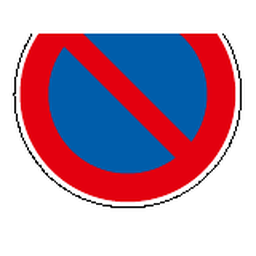
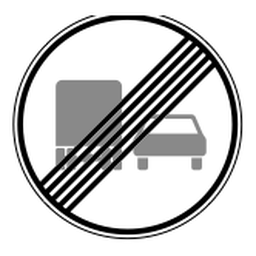
template

diff --git a/src/masks/vorschriftzeichen_manifest.py b/src/masks/vorschriftzeichen_manifest.py
@@ -33,6 +33,23 @@ VORSCHRIFTZEICHEN_TEMPLATES = [
     ("230", "Ladebereich", "rectangle", template_path("230")),
     ("237", "Radweg", "circle", template_path("237")),
     ("238", "Reitweg", "circle", template_path("238")),
+    ("239", "Gehweg", "circle", template_path("239")),
+    ("240", "Gemeinsamer Geh- und Radweg", "circle", template_path("240")),
+    ("241", "Getrennter Rad- und Gehweg", "circle", template_path("241")),
+    ("242.1", "Beginn einer Fussgaengerzone", "rectangle", template_path("242.1")),
+    ("242.2", "Ende einer Fussgaengerzone", "rectangle", template_path("242.2")),
+    ("244.1", "Beginn einer Fahrradstrasse", "rectangle", template_path("244.1")),
+    ("244.2", "Ende einer Fahrradstrasse", "rectangle", template_path("244.2")),
+    ("244.3", "Beginn einer Fahrradzone", "rectangle", template_path("244.3")),
+    ("244.4", "Ende einer Fahrradzone", "rectangle", template_path("244.4")),
+    ("245", "Bussonderfahrstreifen", "circle", template_path("245")),
+    ("250", "Verbot fuer Fahrzeuge aller Art", "circle", template_path("250")),
+    ("251", "Verbot fuer Kraftwagen und sonstige mehrspurige Kraftfahrzeuge", "circle", template_path("251")),
+    ("253", "Verbot fuer Kraftfahrzeuge ueber 3,5 t", "circle", template_path("253")),
+    ("254", "Verbot fuer Radverkehr", "circle", template_path("254")),
+    ("255", "Verbot fuer Kraftraeder", "circle", template_path("255")),
+    ("257-50", "Verbot fuer Mofas", "circle", template_path("257-50")),
+    ("257-51", "Verbot fuer Reiter", "circle", template_path("257-51")),
     ("259", "Verbot fuer Fussgaenger", "circle", template_path("259")),
     ("260", "Verbot fuer Kraftfahrzeuge", "circle", template_path("260")),
     ("261", "Verbot fuer kennzeichnungspflichtige Kraftfahrzeuge mit gefaehrlichen Guetern", "circle", template_path("261")),
@@ -41,6 +58,28 @@ VORSCHRIFTZEICHEN_TEMPLATES = [
     ("264", "Verbot fuer Fahrzeuge ueber angegebener tatsaechlicher Breite", "circle", template_path("264")),
     ("265", "Verbot fuer Fahrzeuge ueber angegebener tatsaechlicher Hoehe", "circle", template_path("265")),
     ("266", "Verbot fuer Fahrzeuge ueber angegebener tatsaechlicher Laenge", "circle", template_path("266")),
+    ("267", "Verbot der Einfahrt", "circle", template_path("267")),
+    ("268", "Schneeketten vorgeschrieben", "circle", template_path("268")),
+    ("269", "Verbot fuer Fahrzeuge mit wassergefaehrdender Ladung", "circle", template_path("269")),
+    ("270.1", "Beginn einer Verkehrsverbotszone zur Verminderung schaedlicher Luftverunreinigungen", "rectangle", template_path("270.1")),
+    ("270.2", "Ende einer Verkehrsverbotszone zur Verminderung schaedlicher Luftverunreinigungen", "rectangle", template_path("270.2")),
+    ("272", "Verbot des Wendens", "circle", template_path("272")),
+    ("273", "Verbot des Unterschreitens des angegebenen Mindestabstands", "circle", template_path("273")),
+    ("274", "Zulaessige Hoechstgeschwindigkeit", "circle", template_path("274")),
+    ("274.1", "Beginn einer Tempo-30-Zone", "rectangle", template_path("274.1")),
+    ("274.2", "Ende einer Tempo-30-Zone", "rectangle", template_path("274.2")),
+    ("275", "Vorgeschriebene Mindestgeschwindigkeit", "circle", template_path("275")),
+    ("276", "Ueberholverbot fuer Kraftfahrzeuge aller Art", "circle", template_path("276")),
+    ("277", "Ueberholverbot fuer Kraftfahrzeuge ueber 3,5 t", "circle", template_path("277")),
+    ("277.1", "Verbot des Ueberholens von einspurigen Fahrzeugen", "circle", template_path("277.1")),
+    ("278", "Ende der zulaessigen Hoechstgeschwindigkeit", "circle", template_path("278")),
+    ("279", "Ende der vorgeschriebenen Mindestgeschwindigkeit", "circle", template_path("279")),
     ("280", "Ende des Ueberholverbots fuer Kraftfahrzeuge aller Art", "circle", template_path("280")),
     ("281", "Ende des Ueberholverbots fuer Kraftfahrzeuge ueber 3,5 t", "circle", template_path("281")),
+    ("281.1", "Ende des Verbots des Ueberholens von einspurigen Fahrzeugen", "circle", template_path("281.1")),
+    ("282", "Ende saemtlicher streckenbezogener Geschwindigkeitsbeschraenkungen und Ueberholverbote", "circle", template_path("282")),
+    ("283", "Absolutes Haltverbot", "circle", template_path("283")),
+    ("286", "Eingeschraenktes Haltverbot", "circle", template_path("286")),
+    ("290.1", "Beginn eines eingeschraenkten Haltverbots fuer eine Zone", "rectangle", template_path("290.1")),
+    ("290.2", "Ende eines eingeschraenkten Haltverbots fuer eine Zone", "rectangle", template_path("290.2")),
 ]

diff --git a/src/masks/template_data.py b/src/masks/template_data.py
@@ -7,6 +7,7 @@ from skimage.transform import resize
 from scipy.ndimage import binary_dilation, binary_erosion, binary_fill_holes, label
 
 from masks.gefahrzeichen_manifest import GEFAHRZEICHEN_TEMPLATES
+from masks.richtzeichen_manifest import RICHTZEICHEN_TEMPLATES
 from masks.vorschriftzeichen_manifest import VORSCHRIFTZEICHEN_TEMPLATES
 
 
@@ -337,8 +338,27 @@ def get_gefahrzeichen_templates_for_type(outer_type):
 def get_sign_templates_for_type(outer_type):
     return (
         get_vorschriftzeichen_templates_for_type(outer_type) +
-        get_gefahrzeichen_templates_for_type(outer_type)
+        get_gefahrzeichen_templates_for_type(outer_type) +
+        get_richtzeichen_templates_for_type(outer_type)
     )
+
+
+def get_richtzeichen_templates_for_type(outer_type):
+    templates = []
+
+    for _code, sign_name, template_outer_type, path in RICHTZEICHEN_TEMPLATES:
+        if template_outer_type != outer_type:
+            continue
+
+        if not path.exists():
+            continue
+
+        templates.append((
+            load_inner_symbol_template(path, outer_type),
+            sign_name
+        ))
+
+    return templates
 
 
 def get_all_vorschriftzeichen_templates():

diff --git a/src/masks/richtzeichen_manifest.py b/src/masks/richtzeichen_manifest.py
@@ -1,0 +1,20 @@
+from pathlib import Path
+
+
+PROJECT_ROOT = Path(__file__).resolve().parents[2]
+TEMPLATE_DIR = PROJECT_ROOT / "resources" / "templates" / "richtzeichen"
+
+
+def template_path(code):
+    filename = code.replace(".", "_").replace("-", "_") + ".png"
+    return TEMPLATE_DIR / filename
+
+
+# code, name, outer_type, image_path
+RICHTZEICHEN_TEMPLATES = [
+    ("301", "Vorfahrt", "triangle", template_path("301")),
+    ("306", "Vorfahrtstrasse", "diamond", template_path("306")),
+    ("307", "Ende der Vorfahrtstrasse", "diamond", template_path("307")),
+    ("331.1", "Kraftfahrstrasse", "rectangle", template_path("331.1")),
+    ("331.2", "Ende der Kraftfahrstrasse", "rectangle", template_path("331.2")),
+]

diff --git a/src/main.py b/src/main.py
@@ -214,7 +214,7 @@ def build_yellow_diamond_candidate(hsv_image):
 
 
 def main():
-    image = io.imread("resources/Baustellenschild.jpg")
+    image = io.imread("resources/caravaning.info-verkehrschild_canva_ki.jpg")
     hsv_image = rgb_to_hsv(image)
 
     position_mask = get_sign_position_mask(hsv_image)